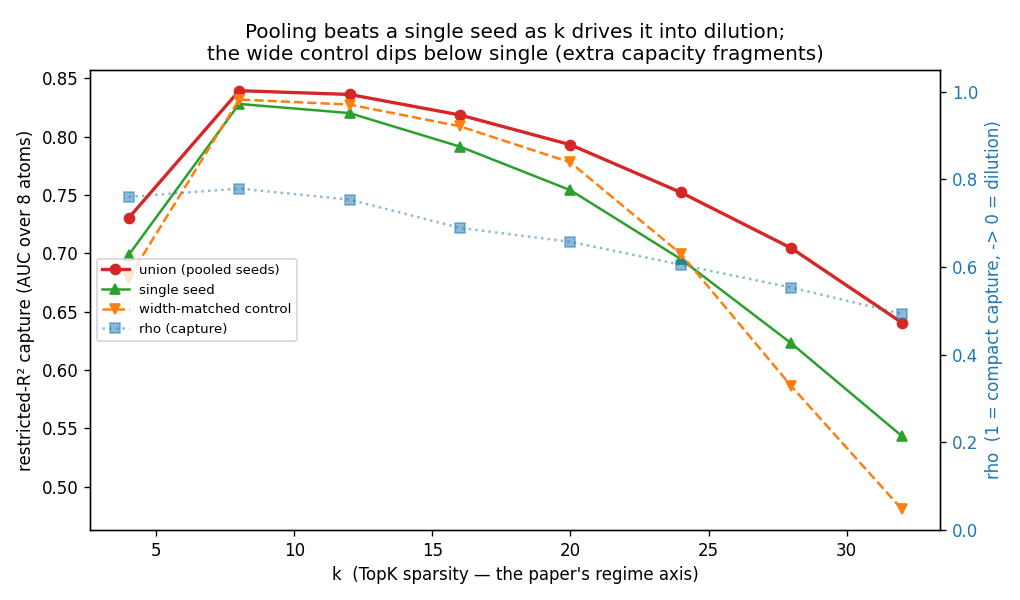
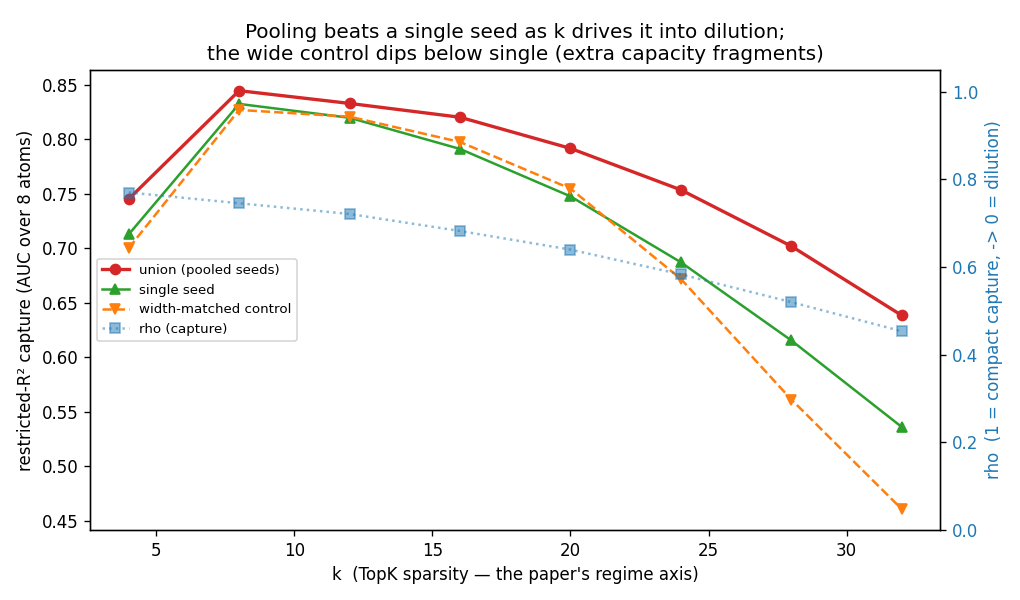
Paper-faithful grid construction + cross-seed splintering panel
- synthetic.py: deterministic 6-variant parameter grid per shape (matches
  the paper's systematic variants rather than random draws)
- notebook.py: add cross-seed splintering panel (§9b) — per-seed
  polysemanticity (participation ratio) and clean-capture single vs union;
  regenerate headline ksweep figure under the gridded construction
- README: add the splintering lens as a second view of the dilution-regime
  benefit, hedged (not independent evidence; does not beat width-matched control)

diff --git a/notebook.py b/notebook.py
@@ -253,8 +253,22 @@ def _(PCA, np, plt, shape, synthetic):
 
 
 @app.cell
-def _(c, d_ambient, expansion, instance_sel, k_active, ksae, mo, noise, nseeds,
-      run, shape, steps, synthetic, train_or_cached):
+def _(
+    c,
+    d_ambient,
+    expansion,
+    instance_sel,
+    k_active,
+    ksae,
+    mo,
+    noise,
+    nseeds,
+    run,
+    shape,
+    steps,
+    synthetic,
+    train_or_cached,
+):
     key = (c.value, d_ambient.value, expansion.value, int(ksae.value), nseeds.value,
            steps.value, k_active.value, round(noise.value, 3))
     with mo.status.spinner(title="Training SAEs on CPU… (~20–60s)"):
@@ -773,8 +787,19 @@ def _(metrics, np, sae_mod, synthetic, train_mod):
 
 
 @app.cell
-def _(c, d_ambient, expansion, k_active, ksweep_or_cached, mo, noise, nseeds, plt,
-      run_ksweep, steps):
+def _(
+    c,
+    d_ambient,
+    expansion,
+    k_active,
+    ksweep_or_cached,
+    mo,
+    noise,
+    nseeds,
+    plt,
+    run_ksweep,
+    steps,
+):
     _key = (c.value, d_ambient.value, expansion.value, nseeds.value, steps.value,
             k_active.value, round(noise.value, 3))
     with mo.status.spinner(title="Sweeping k — training ~20 SAEs on CPU…"):
@@ -908,8 +933,20 @@ def _(metrics, np, sae_mod, synthetic, train_mod):
 
 
 @app.cell
-def _(c, corr_or_cached, d_ambient, expansion, k_active, ksae, mo, noise, nseeds, plt,
-      run_corr, steps):
+def _(
+    c,
+    corr_or_cached,
+    d_ambient,
+    expansion,
+    k_active,
+    ksae,
+    mo,
+    noise,
+    nseeds,
+    plt,
+    run_corr,
+    steps,
+):
     _key = (c.value, d_ambient.value, expansion.value, nseeds.value, steps.value,
             int(ksae.value), k_active.value, round(noise.value, 3))
     with mo.status.spinner(title="Correlation sweep — training ~24 SAEs on CPU…"):
@@ -942,8 +979,7 @@ def _(c, corr_or_cached, d_ambient, expansion, k_active, ksae, mo, noise, nseeds
 
 @app.cell
 def _(mo):
-    mo.md(
-        r"""
+    mo.md(r"""
     ## 9 · Splintering — is each atom on one manifold, or several?
 
     For one seed's SAE, we measure how much each **atom's code varies as each manifold
@@ -953,8 +989,7 @@ def _(mo):
     sweet-spot atoms specialise; push **k** into dilution and they smear across many —
     and (from a separate control) this is driven by sparsity `k`, *not* by how much the
     manifolds' subspaces overlap.
-    """
-    )
+    """)
     return
 
 
@@ -990,8 +1025,84 @@ def _(art, mo, np, plt, sae_mod, synthetic):
 
 @app.cell
 def _(mo):
-    mo.md(
-        r"""
+    mo.md(r"""
+    ### 9b · Splintering across seeds — same *amount*, different *cuts*
+
+    The panel above is one seed. Across the trained seeds, two facts fall out (clearest if you
+    push **k** into dilution, e.g. 32):
+
+    - **Left** — the per-seed polysemanticity histograms sit almost on top of each other: the
+      *amount* of splintering is set by **k**, not the seed (mono-fraction varies only ~±2%).
+    - **Right** — but *which* manifolds each seed cleanly captures differs. A manifold is
+      "cleanly captured" if some atom is **>90% selective** to it. A single seed cleans some
+      number; the **union** of seeds cleans many more — pooling recovers manifolds that any one
+      seed splinters. At a capture **k** this bar is flat (seeds redundant); in dilution it
+      opens up. *This is the cross-seed pooling benefit, seen through the splintering lens: seeds
+      shatter by the same amount but along different cuts, so the union covers what each loses.*
+    """)
+    return
+
+
[email redacted]
+def _(art, mo, np, plt, sae_mod, synthetic):
+    _mans, _seeds, _THR = art["manifolds"], art["seeds"], 0.90
+
+    def _purity_and_pr(_sae):
+        _S = np.zeros((art["d_sae"], len(_mans)), np.float32)
+        for _i, _m in enumerate(_mans):
+            _p, _ = synthetic.probe_in_context(_m, _mans, k_active=art["k_active"],
+                                                n_probe=512, noise_sigma=0.0)
+            _S[:, _i] = sae_mod.encode_sae(_sae, _p).std(0)
+        _alive = _S.sum(1) > 1e-6
+        _Pn = _S[_alive] / _S[_alive].sum(1, keepdims=True)
+        _pr = 1.0 / (_Pn ** 2).sum(1)                      # effective # manifolds / atom
+        _amax, _best = _Pn.argmax(1), _Pn.max(1)
+        _pur = np.array([float(_best[_amax == _i].max()) if (_amax == _i).any() else 0.0
+                         for _i in range(len(_mans))], np.float32)
+        return _pr, _pur
+
+    _prs, _purs, _monos = [], [], []
+    for _sae in _seeds:
+        _pr, _pur = _purity_and_pr(_sae)
+        _prs.append(_pr); _purs.append(_pur); _monos.append(float((_pr < 1.5).mean()))
+    _purity = np.stack(_purs)                              # [seed, manifold]
+    _clean = _purity > _THR
+    _single = float(_clean.sum(1).mean())                 # avg cleanly captured by one seed
+    _union = int(_clean.any(0).sum())                     # cleanly captured by >=1 seed
+
+    _fig, (_axl, _axr) = plt.subplots(1, 2, figsize=(11, 4.2))
+    _bins = np.arange(1, 8.5, 0.5)
+    for _s, _pr in enumerate(_prs):
+        _axl.hist(_pr, bins=_bins, histtype="step", lw=1.8, label=f"seed {_s}")
+    _axl.axvline(1, color="k", lw=0.8, ls=":")
+    _axl.set(xlabel="effective # manifolds / atom (PR)", ylabel="# atoms",
+             title=f"amount of splintering is seed-invariant  "
+                   f"(mono% {np.mean(_monos)*100:.0f} +/- {np.std(_monos)*100:.0f})")
+    _axl.legend(fontsize=7)
+
+    _axr.bar(["single seed\n(avg)", f"union of {len(_seeds)}"], [_single, _union],
+             color=["tab:green", "tab:red"])
+    _axr.set(ylabel=f"manifolds cleanly captured (purity > {_THR})", ylim=(0, len(_mans)),
+             title=f"which manifolds splinter differs by seed  "
+                   f"(pooling +{_union - _single:.0f} of {len(_mans)})")
+    for _x, _v in enumerate([_single, _union]):
+        _axr.text(_x, _v + 0.4, f"{_v:.0f}", ha="center", fontsize=11)
+    _fig.tight_layout()
+
+    mo.vstack([
+        mo.md(f"**k={art['k']}** · single seed cleans **{_single:.0f}/{len(_mans)}**, "
+              f"union of {len(_seeds)} cleans **{_union}/{len(_mans)}** "
+              f"(**+{_union - _single:.0f}**). Per-manifold purity std across seeds: "
+              f"**{_purity.std(0).mean():.3f}** (0 = identical splintering). At the default "
+              f"capture **k** the two bars match; push **k** to 32 to open the gap."),
+        _fig,
+    ])
+    return
+
+
[email redacted]
+def _(mo):
+    mo.md(r"""
     ## 10 · Recovering manifolds from the fractured atoms
 
     Can we group the fractured atoms back into their manifolds *unsupervised*? We cluster
@@ -1000,8 +1111,7 @@ def _(mo):
     capture (atoms monosemantic), hard in dilution (polysemantic atoms resist clustering).
     *(The paper does this with conditional "Ising" couplings — L1-pseudolikelihood; on this
     toy plain co-activation works about as well once tuned, so we use it here.)*
-    """
-    )
+    """)
     return
 
 

diff --git a/synthetic.py b/synthetic.py
@@ -92,6 +92,21 @@ def _random_params(shape, rng):
     return {}
 
 
+def _grid_params(shape, v, n=6):
+    """Deterministic 6-variant parameter grid per shape (``v`` in 0..n-1), matching the
+    paper's *systematic* 'six parameter variants per type' rather than random draws. The
+    grid spans the same ranges as ``_random_params``. Parameter-free shapes (line, circle,
+    disk, sphere, mobius) have no variants — they differ only by their random embedding."""
+    t = v / (n - 1) if n > 1 else 0.0            # 0..1 across the variants
+    if shape == "helix":
+        return dict(turns=1.5 + 2.0 * t, pitch=0.5 + 1.5 * t)
+    if shape == "torus":
+        return dict(R=1.5 + 1.5 * t, r=0.4 + 0.6 * t)
+    if shape == "swiss_roll":
+        return dict(height=1.0 + 2.0 * t)
+    return {}
+
+
 def _random_orthonormal(e, d, rng):
     """Random matrix [e, d] with orthonormal rows (e <= d)."""
     g = rng.normal(size=(d, e))
@@ -117,13 +132,17 @@ class Manifold:
 
 
 def build_dictionary(c=C, d=D, seed=0):
-    """Build ``c`` manifolds cycling through the 8 shape types."""
+    """Build ``c`` manifolds cycling through the 8 shape types. Shape parameters follow
+    the paper's deterministic 6-variant grid (variant = which pass through the shape
+    cycle); position (origin), rotation (random ``V_i``) and unit-RMS size match the
+    paper's ``x = Σ_i z_i V_i`` construction."""
     rng = np.random.default_rng(seed)
     manifolds = []
+    n_shapes = len(SHAPE_TYPES)
     for i in range(c):
-        shape = SHAPE_TYPES[i % len(SHAPE_TYPES)]
+        shape = SHAPE_TYPES[i % n_shapes]
         e = SHAPE_EMBED_DIM[shape]
-        params = _random_params(shape, rng)
+        params = _grid_params(shape, (i // n_shapes) % 6)
         V = _random_orthonormal(e, d, rng)
         # rescale to unit RMS: scale = 1 / rms(embedded canonical sample)
         emb = (_sample_canonical(shape, 4096, rng, params) @ V)

diff --git a/README.md b/README.md
@@ -68,6 +68,16 @@ simply having several independent SAEs to pool and half from the seed difference
 itself — averaging aligned seeds does not reproduce it, so the seeds cover complementary
 regions rather than denoising a shared solution.
 
+A second lens tells the same story. Instead of "how many atoms to reconstruct a
+manifold," ask "how many manifolds does one atom respond to" (a per-atom polysemanticity
+score; the notebook's splintering section). Where a single SAE captures compactly the
+atoms are near-monosemantic; in dilution they smear across several manifolds. Across
+seeds, the *amount* of this smearing is nearly constant, but *which* manifolds a given
+seed smears varies — so pooling seeds tends to cover manifolds that any one seed
+fractures. This is a re-description of the same dilution-regime benefit, not independent
+evidence, and it does **not** establish that pooling beats a single equally-wide SAE —
+that comparison rests on the width-matched control, which is unreliable (above).
+
 None of this has been tested on a real model, where the manifold geometry is unknown.
 
 ![single / union / width-matched control capture vs. sparsity k](results/figures/ksweep_crossseed.png)